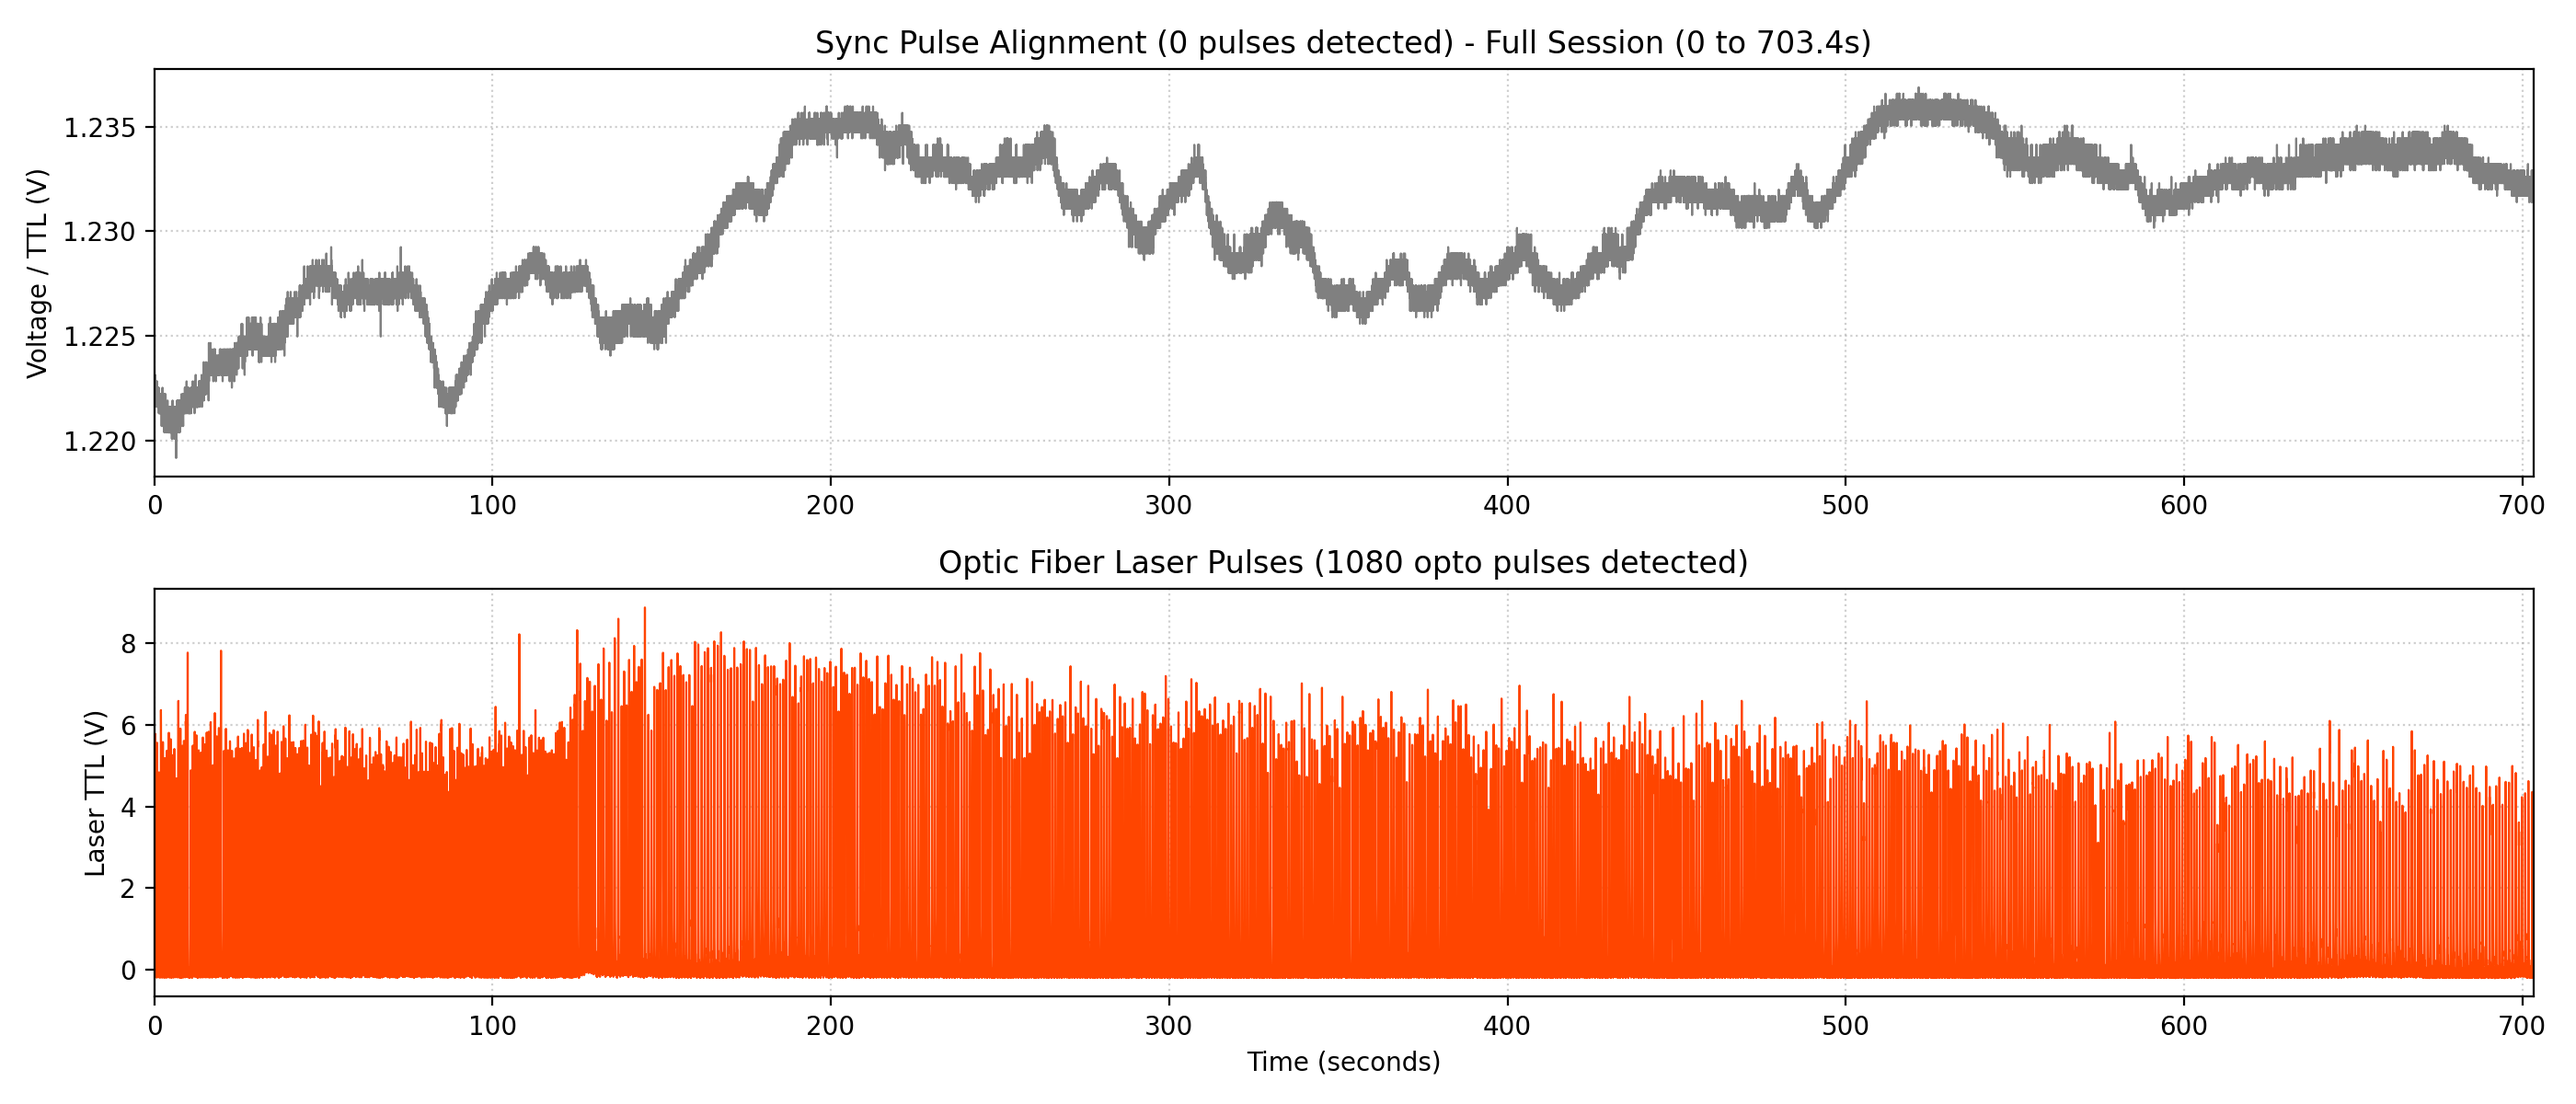
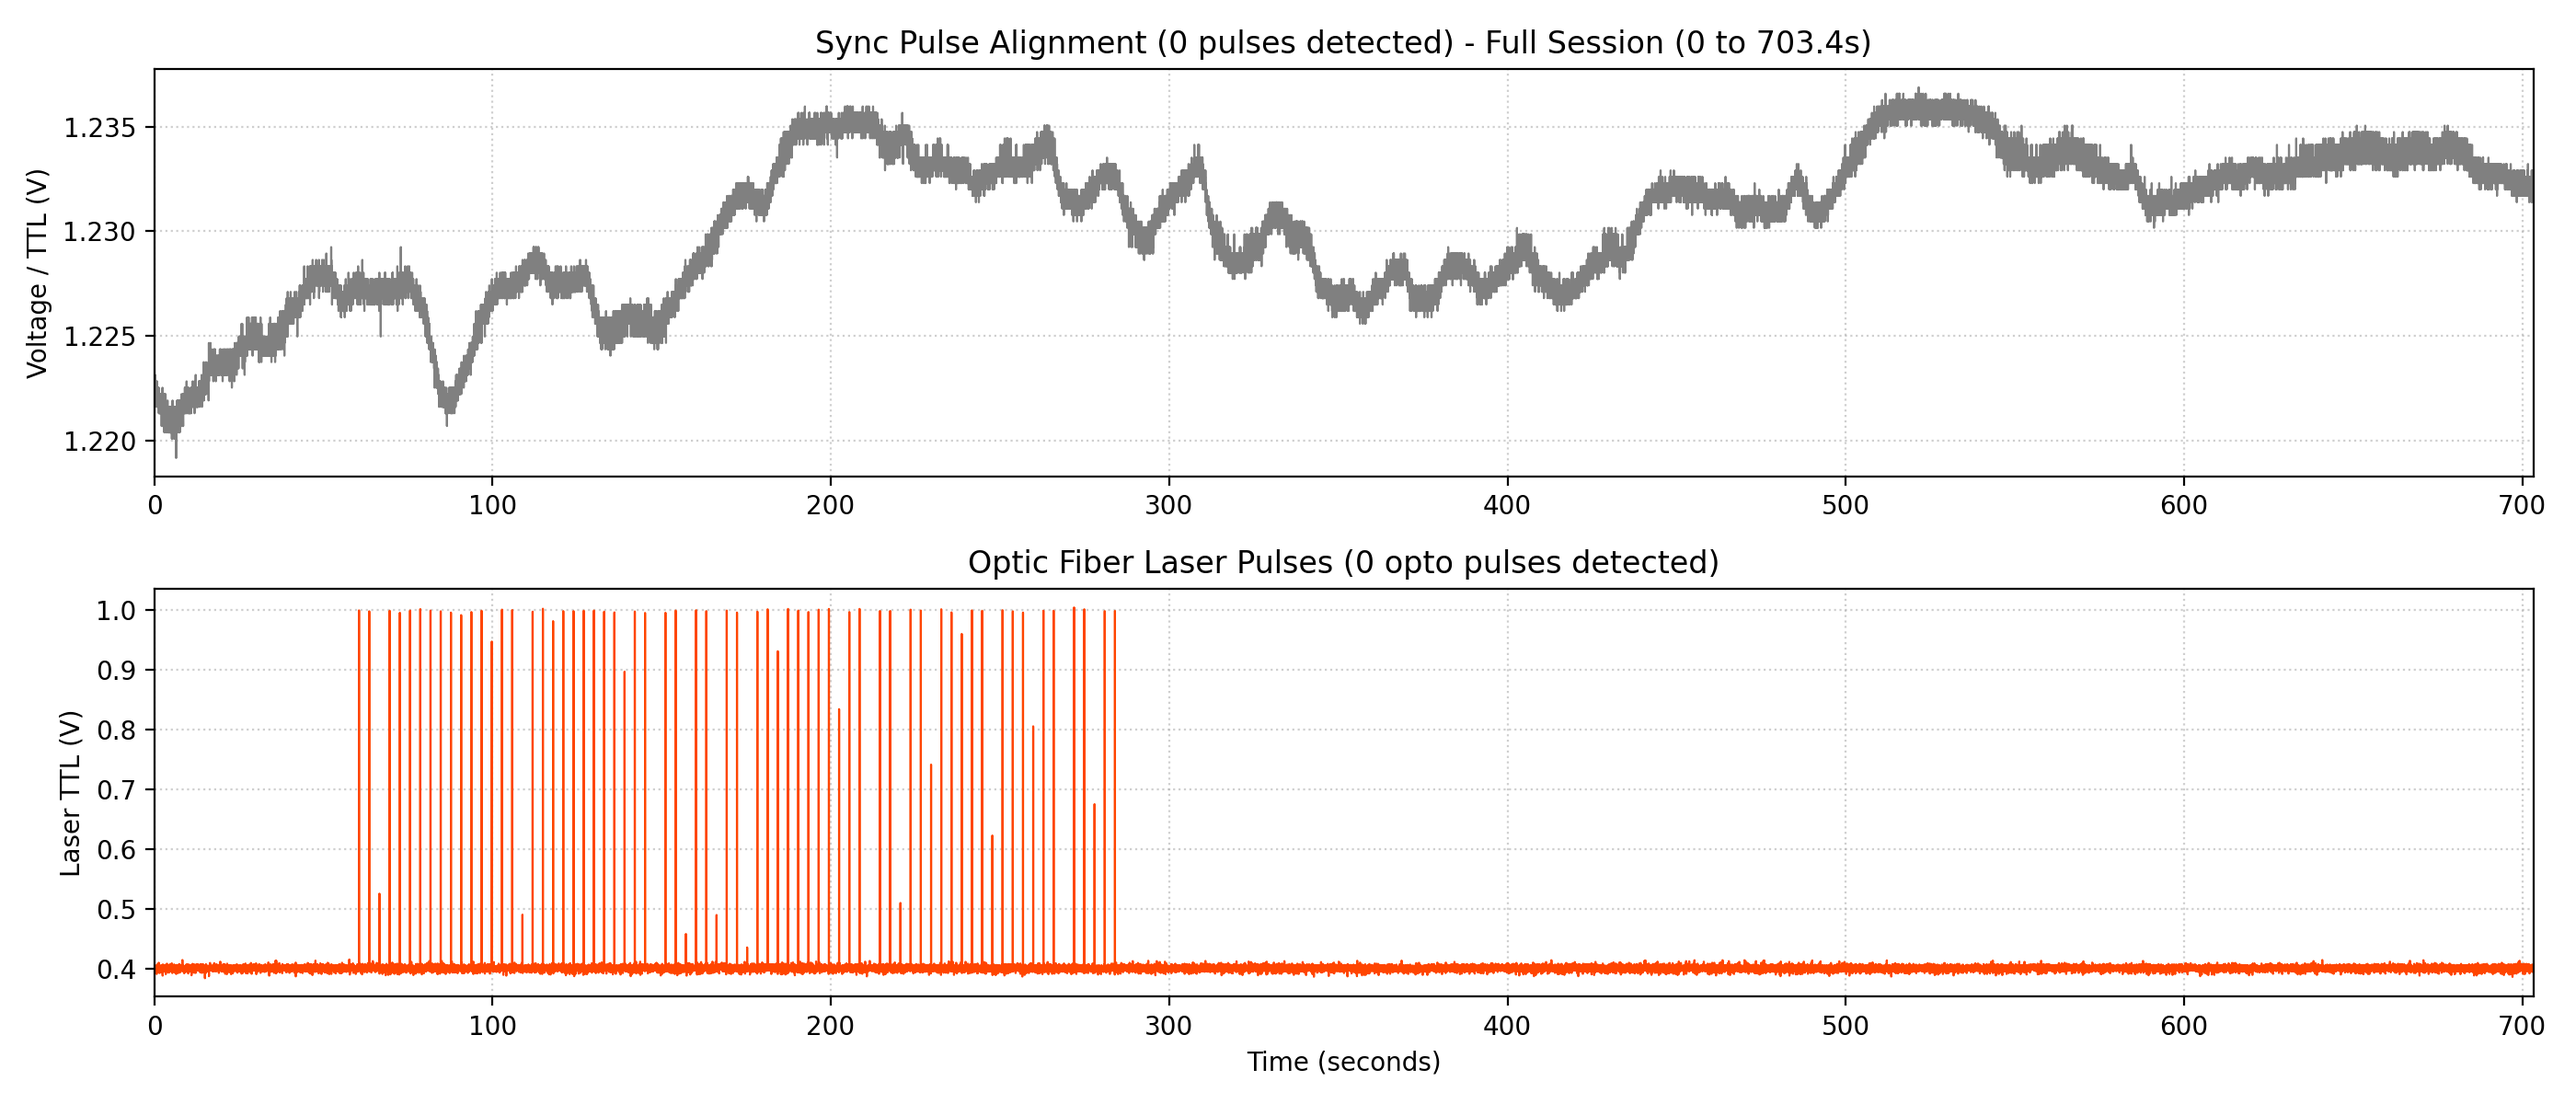
Update default opto laser channel index to 6 (XA6;6)

Changed region(s): [[0.0311, 0.555, 0.9943, 0.8942], [0.3729, 0.4933, 0.6836, 0.5242], [0.0311, 0.5858, 0.0621, 0.6167]]

diff --git a/scripts/run_local_preproc.py b/scripts/run_local_preproc.py
@@ -24,11 +24,11 @@ def main():
     parser.add_argument("--non-interactive", action="store_true", help="Run without interactive parameter prompts")
     
     # Channel Index Flags
-    parser.add_argument("--emg-channel", type=int, default=0, help="EMG channel index (default: 0)")
+    parser.add_argument("--emg-channel", type=int, default=0, help="EMG channel index (default: 0 for xa0;0)")
     parser.add_argument("--ecg-channel", type=int, default=1, help="ECG channel index (default: 1 for xa1;1)")
     parser.add_argument("--no-ecg", action="store_true", help="Disable ECG processing if no ECG was recorded")
-    parser.add_argument("--sync-channel", type=int, default=7, help="Sync channel index (default: 7)")
-    parser.add_argument("--opto-channel", type=int, default=2, help="Opto channel index (default: 2)")
+    parser.add_argument("--sync-channel", type=int, default=7, help="Sync channel index (default: 7 for syncNiChan)")
+    parser.add_argument("--opto-channel", type=int, default=6, help="Opto channel index (default: 6 for xa6;6)")
 
     # Processing Parameter Flags
     parser.add_argument("--emg-highpass", type=float, default=300.0, help="EMG highpass cutoff (Hz)")

diff --git a/src/pipeline/config.py b/src/pipeline/config.py
@@ -33,8 +33,8 @@ class ECGConfig:
 
 @dataclass
 class SyncOptoConfig:
-    sync_channel_index: int = 2
-    opto_channel_index: int = 3
+    sync_channel_index: int = 7  # Default sync channel index (XA7;7)
+    opto_channel_index: int = 6  # Default opto laser channel index (XA6;6)
     fs: float = 10000.0  # Hz
     pulse_threshold_v: float = 2.5  # Volts for digital TTL detection
     min_pulse_width_ms: float = 1.0  # ms

diff --git a/output_TP_Tacr1_1/TP_Tacr1_1_npx2_g4_provenance.md b/output_TP_Tacr1_1/TP_Tacr1_1_npx2_g4_provenance.md
@@ -1,9 +1,9 @@
 # Analysis Provenance & Reproduction Journal
 
-- **Timestamp**: `2026-07-29T16:05:50.959939`
+- **Timestamp**: `2026-07-29T16:15:06.509297`
 - **Subject**: `TP_Tacr1_1`
 - **Session**: `npx2_g4`
-- **Git Commit**: `169280496dbfa9e94bd44e64f9ba9abb6bb99c6c (dirty)`
+- **Git Commit**: `df4f4604aa86a3862cfb3b984f4113f401cb6d47 (dirty)`
 - **Python Version**: `3.12.13`
 - **Raw Data Directory**: `Z:\ramirezlab\pascual\rec_data\TP_Tacr1_1_npx2_g4`
 
@@ -28,7 +28,7 @@
 
 ### Opto Laser & Time Sync
 - **Sync Channel Index**: `7`
-- **Opto Laser Channel Index**: `2`
+- **Opto Laser Channel Index**: `6`
 - **Pulse Threshold**: `2.5 V`
 
 ---
@@ -46,7 +46,7 @@
   "mean_heart_rate_bpm": 0.0,
   "hrv_sdnn_ms": 0.0,
   "sync_pulses_count": 0,
-  "opto_pulses_count": 1080,
+  "opto_pulses_count": 0,
   "neuropixel_units_count": 8,
   "diagnostic_plots": {
     "raw_all_channels": "output_TP_Tacr1_1\\TP_Tacr1_1_npx2_g4_raw_all_channels.png",
